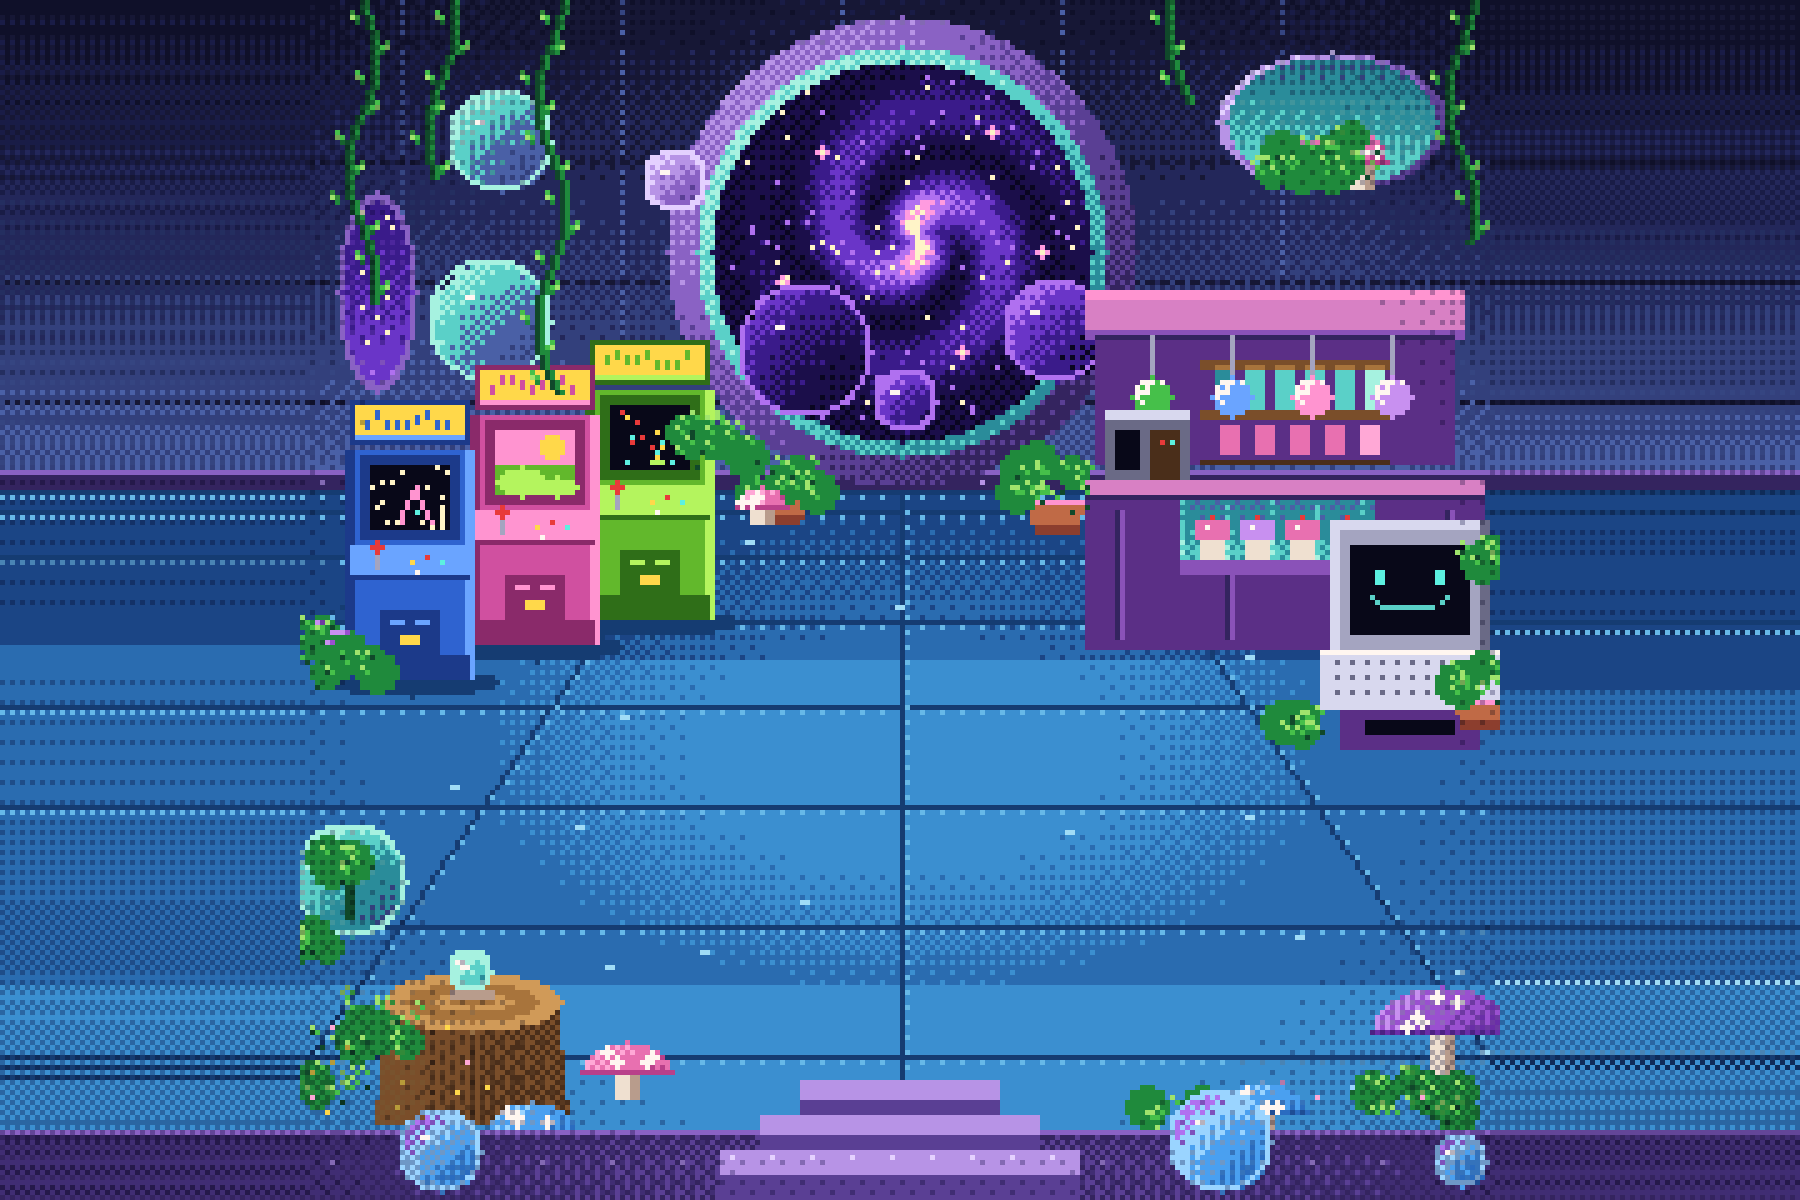
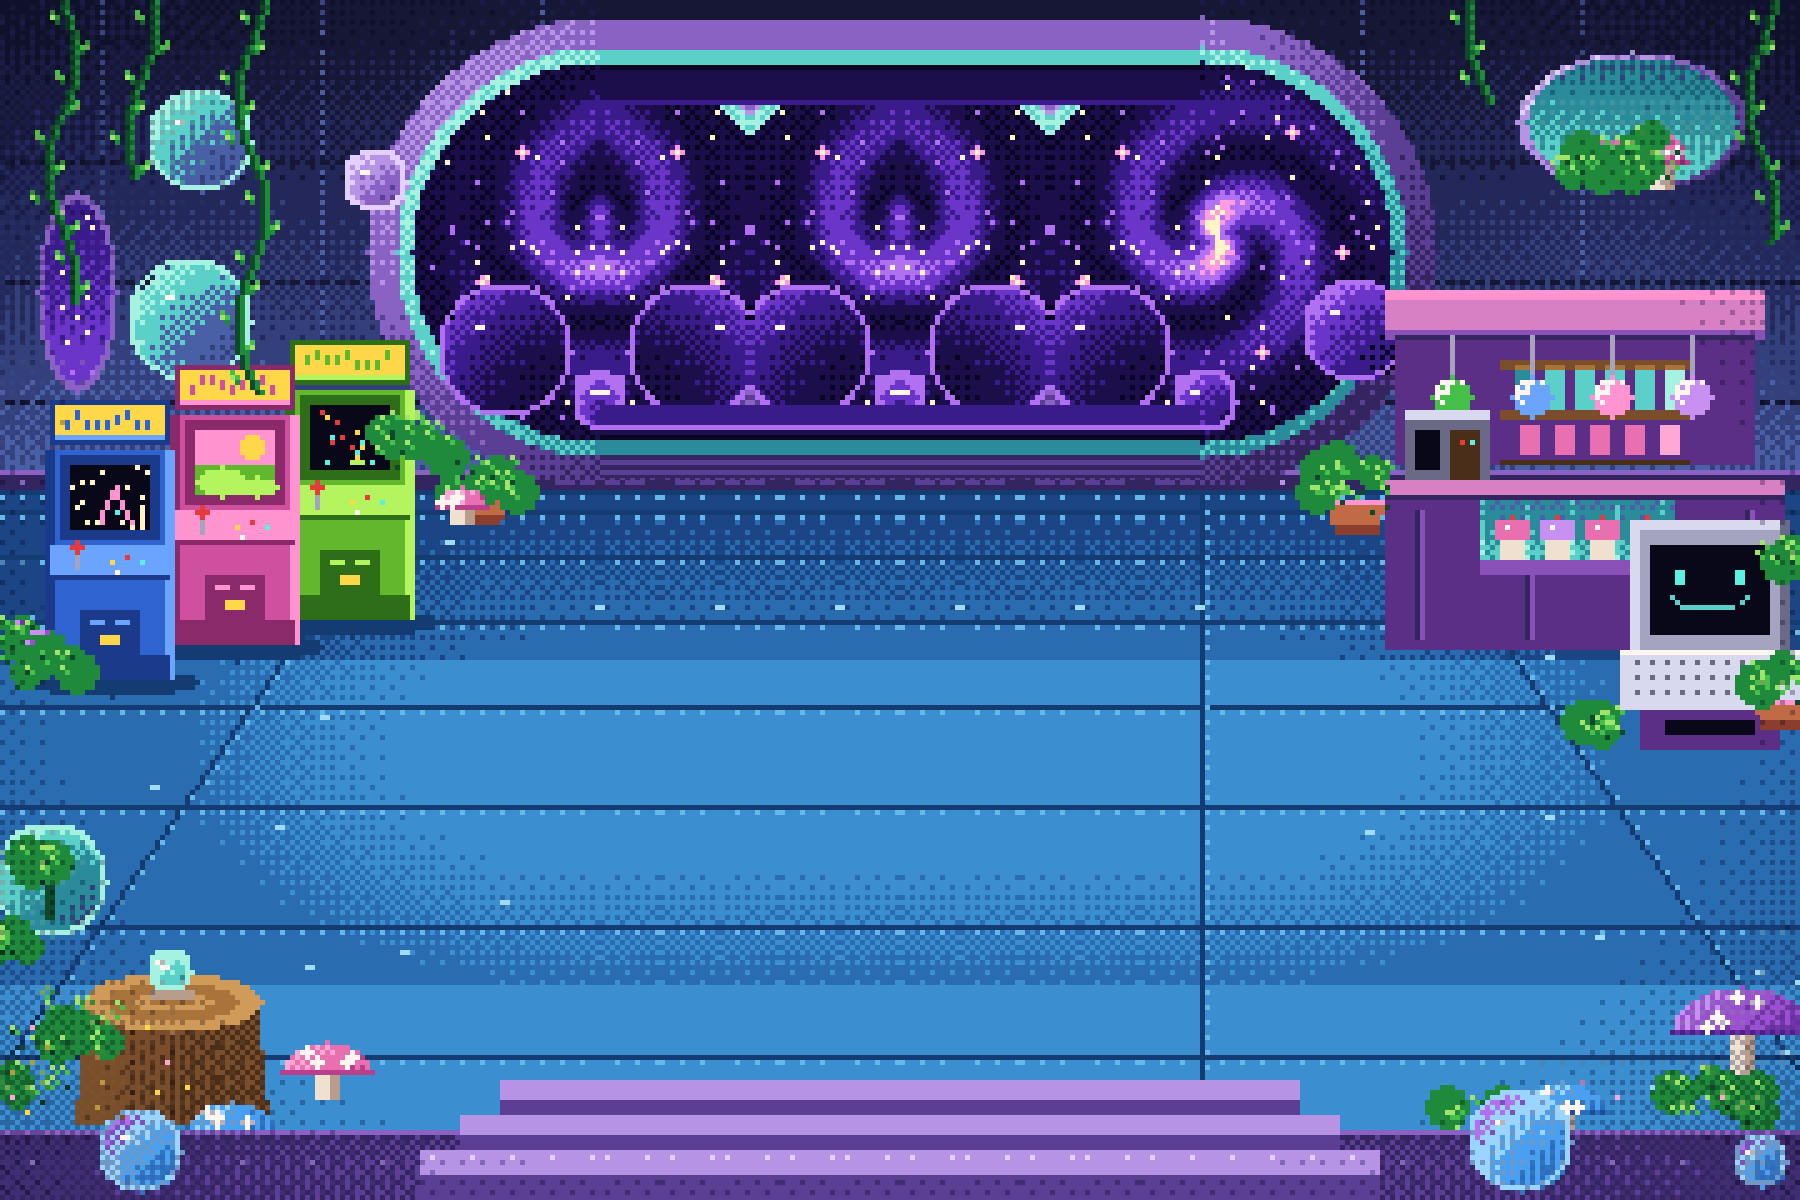
extra launchpad width goes in the middle now, arcades and bar hug the edges

diff --git a/art/tools/widen-arcade.py b/art/tools/widen-arcade.py
@@ -1,9 +1,12 @@
 """Builds the 3:2 Pixie Launchpad background from the original square art.
 
-The room keeps its original 1200x1200 art in the middle. 300px on each side continue the wall and
-floor by repeating the outermost ten columns, with rows that hit a plant, bubble or mushroom swapped
-for the nearest clean row (same dither phase) so nothing streaks. Swap the output for hand drawn art
-whenever there is some, the room reads its size from client/arcade/room-setup.js.
+The cabinets stay on the left edge and the bar stays on the right edge, the extra 600px goes in the
+middle of the room. The inserted columns are the original's center columns reflected back and forth,
+so the window turns into a long panoramic one and the floor gains more tiles. The wall half repeats
+a wider slice than the floor half so the galaxy only mirrors once instead of tiling like wallpaper,
+and the window ring is held flat so it reads as one long pill.
+Swap the output for hand drawn art whenever there is some, the room reads its size from
+client/arcade/room-setup.js.
 """
 import sys
 import numpy as np
@@ -11,40 +14,39 @@ from PIL import Image
 
 SRC = "assets/maps/arcade/arcade-01-bg.png"
 OUT = "assets/maps/arcade/arcade-02-wide.png"
-EXTRA = 300
-STRIP = 10  # two art pixels, keeps the dither pattern lined up
-PHASE = 10  # rows repeat their dither every ten pixels
+CUT = 600  # where the original gets split, the middle of the window and of the floor
+EXTRA = 600
+LEDGE = 478  # the wall meets the floor here, the two halves can use different slices
+WALL_SLICE = 150
+FLOOR_SLICE = 60  # both must divide EXTRA/2 so the last inserted column lines up with the right side
+GALAXY = (105, 405)  # rows where the window interior is safe to mirror, outside them the ring curves
 
 art = np.array(Image.open(SRC).convert("RGBA"))
-height, width, _ = art.shape
 
 
-def clean(row_pixels):
-    r, g, b = (row_pixels[:, i].astype(int) for i in range(3))
-    plant = (g > r + 30) & (g >= b - 12)
-    warm = (r > g + 45) | (r > 175)
-    return not (plant | warm).any()
+def reflected(slice_width):
+    """source column for each inserted column, walking left from the cut and bouncing back."""
+    order = []
+    for j in range(EXTRA):
+        m = j % (2 * slice_width)
+        order.append(CUT - 1 - (m if m < slice_width else 2 * slice_width - 1 - m))
+    return order
 
 
-def widen(strip):
-    ok = [clean(strip[y]) for y in range(height)]
-    fixed = strip.copy()
-    for y in range(height):
-        if ok[y]:
-            continue
-        for k in range(1, height // PHASE):
-            for source in (y - PHASE * k, y + PHASE * k):
-                if 0 <= source < height and ok[source]:
-                    fixed[y] = strip[source]
-                    break
-            else:
-                continue
-            break
-    return np.tile(fixed, (1, EXTRA // STRIP, 1))
 
 
-out = np.zeros((height, width + 2 * EXTRA, 4), np.uint8)
-out[:, EXTRA : EXTRA + width] = art
-out[:, :EXTRA] = widen(art[:, :STRIP])
-out[:, EXTRA + width :] = widen(art[:, width - STRIP :])
+def flat_row(y):
+    """one row held straight across the middle, the most common color so stars don't turn into dashes."""
+    colors, counts = np.unique(art[y, CUT - 30 : CUT + 30].reshape(-1, 4), axis=0, return_counts=True)
+    return colors[counts.argmax()]
+
+
+middle = np.empty((art.shape[0], EXTRA, 4), np.uint8)
+middle[:LEDGE] = art[:LEDGE][:, reflected(WALL_SLICE)]
+middle[LEDGE:] = art[LEDGE:][:, reflected(FLOOR_SLICE)]
+# the ring of the window and the wall above and below it stay perfectly straight so the window is a pill
+for y in range(LEDGE):
+    if not GALAXY[0] <= y < GALAXY[1]:
+        middle[y] = flat_row(y)
+out = np.concatenate([art[:, :CUT], middle, art[:, CUT:]], axis=1)
 Image.fromarray(out).save(sys.argv[1] if len(sys.argv) > 1 else OUT, optimize=True)
